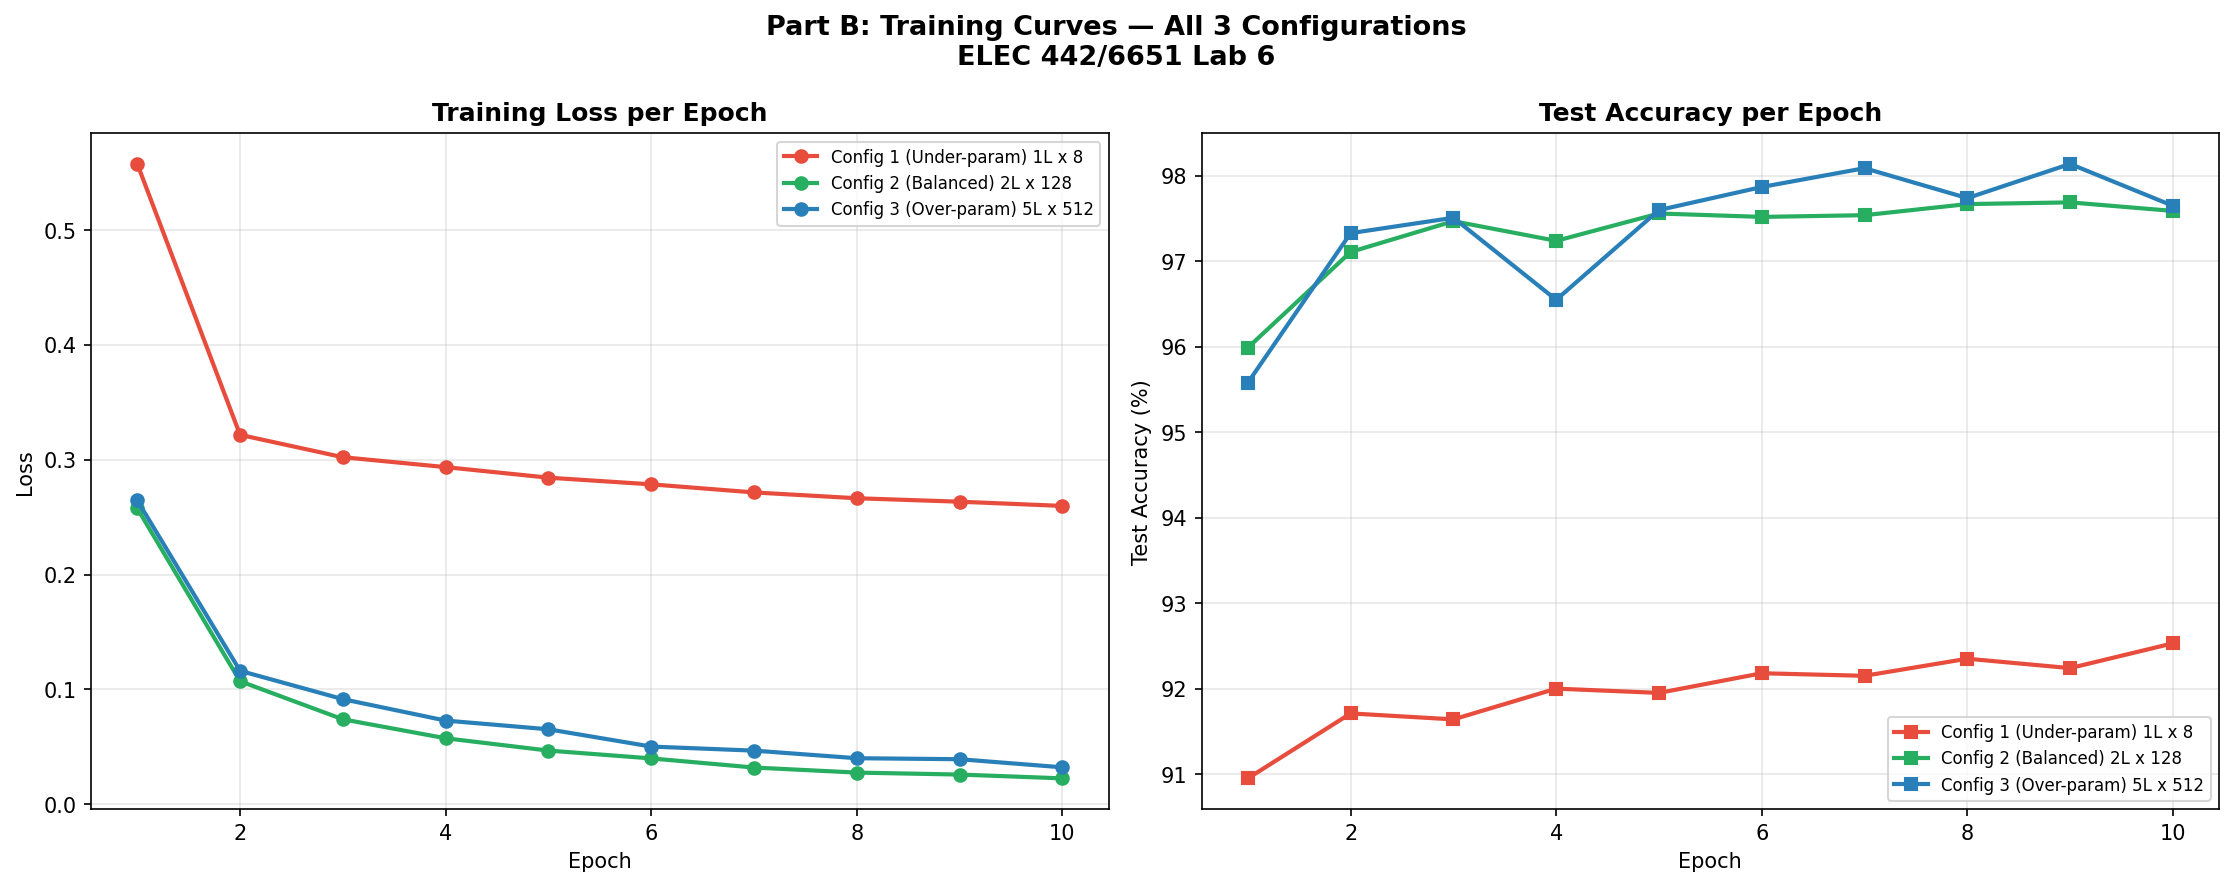
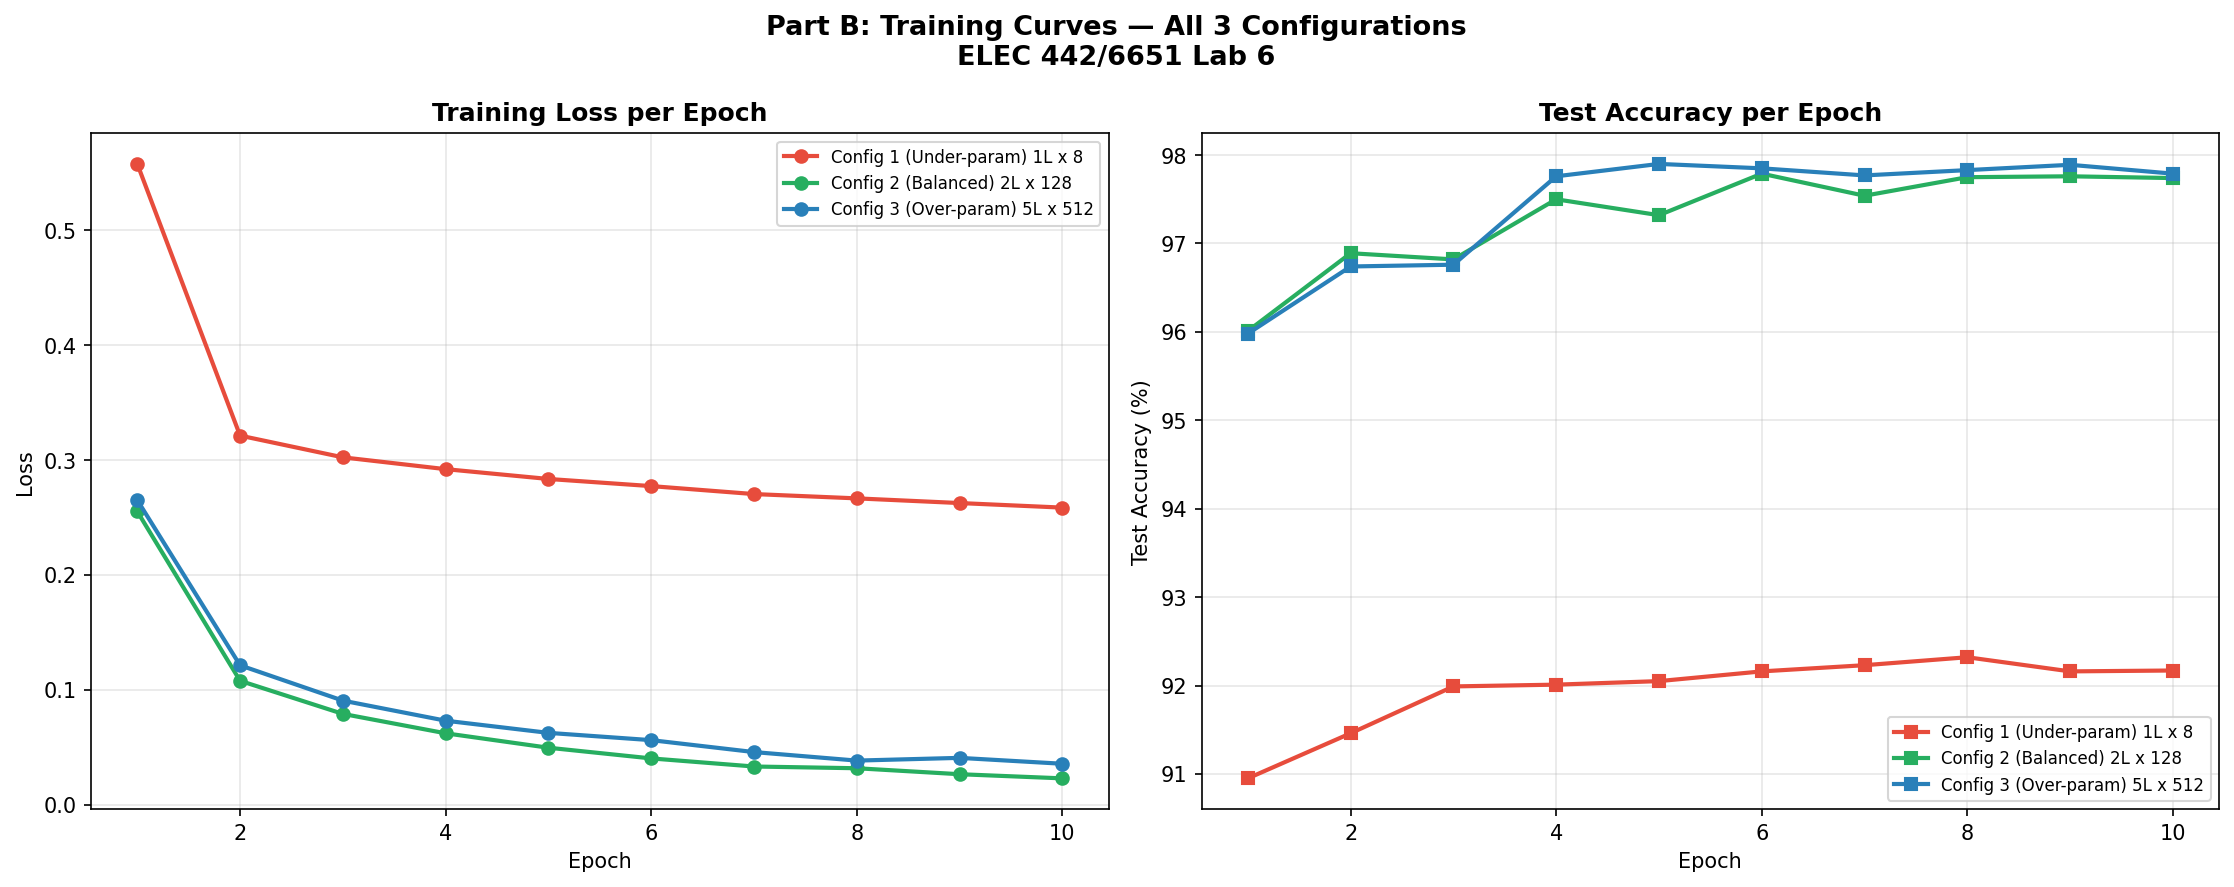
Add Lab 6 MLP MNIST - Neural Network Capacity

diff --git a/Lab6_MLP/Lab6_MLP_MNIST.py b/Lab6_MLP/Lab6_MLP_MNIST.py
@@ -91,8 +91,9 @@ def train_model(model, train_loader, test_loader, epochs, lr, name):
     model = model.to(device)
     criterion = nn.CrossEntropyLoss()
     optimizer = optim.Adam(model.parameters(), lr=lr)
-    train_losses    = []
-    test_accuracies = []
+    train_losses     = []
+    train_accuracies = []
+    test_accuracies  = []
 
     print(f"\nTraining: {name}  |  Parameters: {count_parameters(model):,}")
 
@@ -112,7 +113,21 @@ def train_model(model, train_loader, test_loader, epochs, lr, name):
         avg_loss = total_loss / total_batches
         train_losses.append(avg_loss)
 
+        # Calculate training accuracy
         model.eval()
+        train_correct, train_total = 0, 0
+        with torch.no_grad():
+            for images, labels in train_loader:
+                images, labels = images.to(device), labels.to(device)
+                outputs = model(images)
+                _, predicted = torch.max(outputs, 1)
+                train_total += labels.size(0)
+                train_correct += (predicted == labels).sum().item()
+
+        train_accuracy = train_correct / train_total
+        train_accuracies.append(train_accuracy)
+
+        # Calculate test accuracy
         correct, total = 0, 0
         with torch.no_grad():
             for images, labels in test_loader:
@@ -122,39 +137,44 @@ def train_model(model, train_loader, test_loader, epochs, lr, name):
                 total   += labels.size(0)
                 correct += (predicted == labels).sum().item()
 
-        accuracy = correct / total
-        test_accuracies.append(accuracy)
-        print(f"  Epoch {epoch+1:2d}/{epochs} | Loss: {avg_loss:.4f} | Test Acc: {accuracy*100:.2f}%")
+        test_accuracy = correct / total
+        test_accuracies.append(test_accuracy)
 
-    return train_losses, test_accuracies
+        print(f"  Epoch {epoch+1:2d}/{epochs} | Loss: {avg_loss:.4f} | Train Acc: {train_accuracy*100:.2f}% | Test Acc: {test_accuracy*100:.2f}%")
+
+    return train_losses, train_accuracies, test_accuracies
 
 
 configs = {
-    'Config 1 (Under-param) 1L x 8' : {'hidden': [8],        'color': '#E74C3C'},
-    'Config 2 (Balanced) 2L x 128'  : {'hidden': [128, 128],  'color': '#27AE60'},
-    'Config 3 (Over-param) 5L x 512': {'hidden': [512]*5,     'color': '#2980B9'},
+    'Config 1 (Under-param) 1L x 8' : {'hidden': [8],         'color': '#E74C3C'},
+    'Config 2 (Balanced) 2L x 128'  : {'hidden': [128, 128], 'color': '#27AE60'},
+    'Config 3 (Over-param) 5L x 512': {'hidden': [512]*5,    'color': '#2980B9'},
 }
 
 all_results = {}
 for name, config in configs.items():
     model = MLP(config['hidden'])
-    losses, accs = train_model(model, train_loader, test_loader, EPOCHS, LEARNING_RATE, name)
+    losses, train_accs, test_accs = train_model(model, train_loader, test_loader, EPOCHS, LEARNING_RATE, name)
     all_results[name] = {
-        'model'     : model,
-        'losses'    : losses,
-        'accuracies': accs,
-        'color'     : config['color'],
-        'params'    : count_parameters(model),
-        'final_loss': losses[-1],
-        'final_acc' : accs[-1]
+        'model'          : model,
+        'losses'         : losses,
+        'train_accs'     : train_accs,
+        'test_accs'      : test_accs,
+        'accuracies'     : test_accs,
+        'color'          : config['color'],
+        'params'         : count_parameters(model),
+        'final_loss'     : losses[-1],
+        'final_train_acc': train_accs[-1],
+        'final_test_acc' : test_accs[-1],
+        'final_acc'      : test_accs[-1]
     }
 
-print("\n" + "=" * 65)
-print(f"{'Configuration':<35} {'Params':>10} {'Test Acc':>10}")
-print("-" * 65)
+print("\n" + "=" * 90)
+print(f"{'Configuration':<35} {'Params':>12} {'Train Acc':>15} {'Test Acc':>15}")
+print("-" * 90)
 for name, res in all_results.items():
-    print(f"{name:<35} {res['params']:>10,} {res['final_acc']*100:>9.2f}%")
-print("=" * 65)
+    print(f"{name:<35} {res['params']:>12,} {res['final_train_acc']*100:>14.2f}% {res['final_test_acc']*100:>14.2f}%")
+print("=" * 90)
 
 fig, axes = plt.subplots(1, 2, figsize=(15, 6))
 fig.suptitle("Part B: Training Curves — All 3 Configurations\nELEC 442/6651 Lab 6",
@@ -162,7 +182,7 @@ fig.suptitle("Part B: Training Curves — All 3 Configurations\nELEC 442/6651 La
 for name, res in all_results.items():
     axes[0].plot(range(1, EPOCHS+1), res['losses'],
                  marker='o', color=res['color'], label=name, linewidth=2)
-    axes[1].plot(range(1, EPOCHS+1), [a*100 for a in res['accuracies']],
+    axes[1].plot(range(1, EPOCHS+1), [a*100 for a in res['test_accs']],
                  marker='s', color=res['color'], label=name, linewidth=2)
 
 axes[0].set_xlabel('Epoch')
@@ -187,10 +207,10 @@ print("Saved: Lab6_PartB_Training_Curves.png")
 # PART C: DETAILED EVALUATION OF BEST MODEL
 # ================================================================
 
-best_name  = max(all_results, key=lambda k: all_results[k]['final_acc'])
+best_name  = max(all_results, key=lambda k: all_results[k]['final_test_acc'])
 best_model = all_results[best_name]['model']
 print(f"\nBest model: {best_name}")
-print(f"Test Accuracy: {all_results[best_name]['final_acc']*100:.2f}%")
+print(f"Test Accuracy: {all_results[best_name]['final_test_acc']*100:.2f}%")
 
 best_model.eval()
 all_preds, all_labels = [], []
@@ -207,7 +227,7 @@ all_labels = np.array(all_labels)
 
 fig, ax = plt.subplots(figsize=(9, 5))
 best_losses = all_results[best_name]['losses']
-best_accs   = all_results[best_name]['accuracies']
+best_accs   = all_results[best_name]['test_accs']
 ax.plot(range(1, EPOCHS+1), best_losses, color='#27AE60',
         marker='o', linewidth=2.5, markersize=7, label='Training Loss')
 ax.fill_between(range(1, EPOCHS+1), best_losses, alpha=0.15, color='#27AE60')
